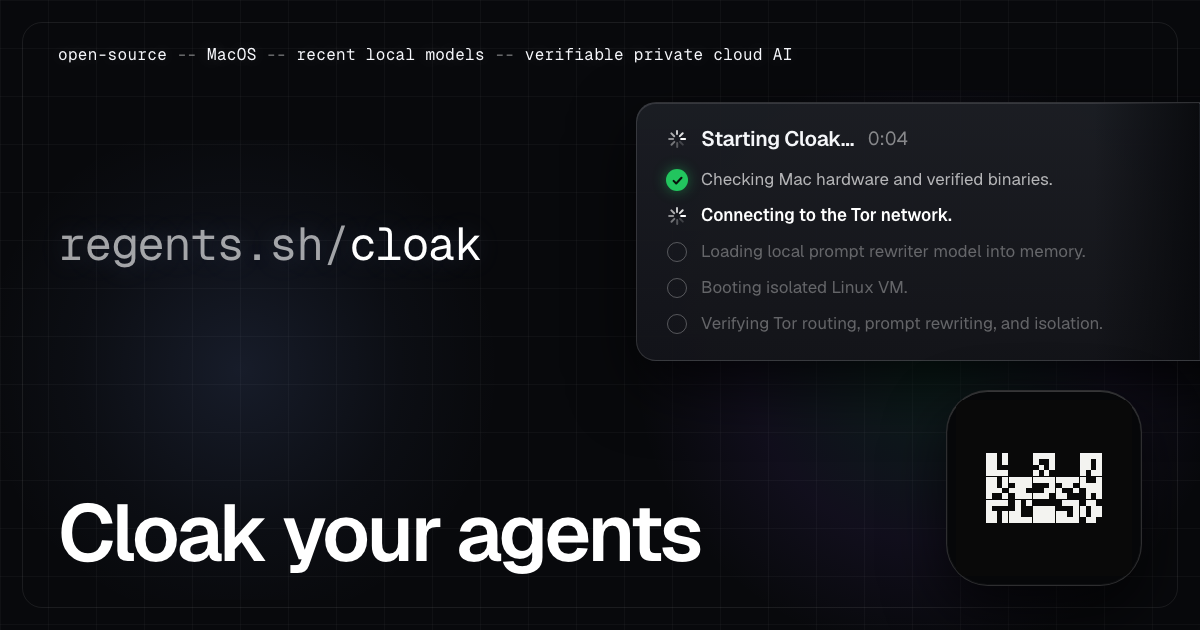
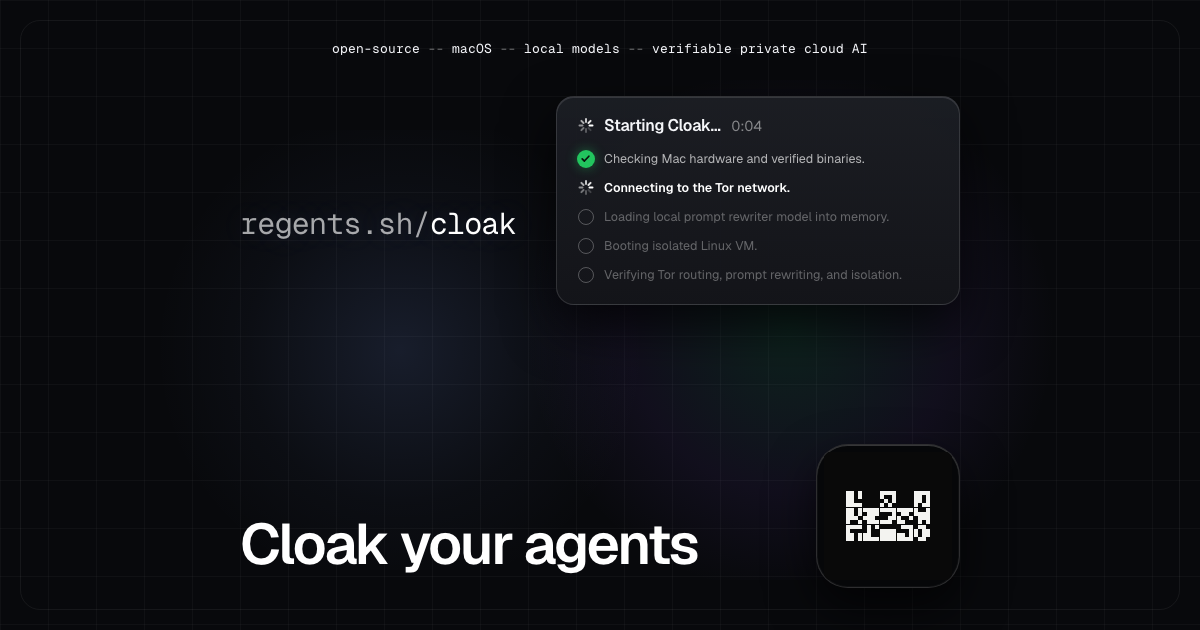
Reframe Cloak share card inside iMessage-safe center zone

diff --git a/scripts/share-cards/cloak.html b/scripts/share-cards/cloak.html
@@ -27,83 +27,93 @@ body {
   background-size: 48px 48px;
 }
 
-/* Soft ambient glows */
+/* Soft ambient glows centered in the iMessage-safe zone */
 .glow-left {
   position: absolute;
-  left: -40px;
-  top: 140px;
-  width: 560px;
-  height: 460px;
-  background: radial-gradient(circle, rgba(130, 165, 255, 0.12) 0%, rgba(130, 165, 255, 0.03) 45%, transparent 72%);
+  left: 140px;
+  top: 130px;
+  width: 520px;
+  height: 440px;
+  background: radial-gradient(circle, rgba(130, 165, 255, 0.13) 0%, rgba(130, 165, 255, 0.03) 45%, transparent 72%);
   pointer-events: none;
 }
 .glow-right {
   position: absolute;
-  right: -40px;
-  top: 90px;
-  width: 620px;
-  height: 540px;
-  background: radial-gradient(circle, rgba(52, 211, 153, 0.11) 0%, rgba(139, 92, 246, 0.07) 44%, transparent 72%);
+  right: 140px;
+  top: 80px;
+  width: 540px;
+  height: 500px;
+  background: radial-gradient(circle, rgba(52, 211, 153, 0.12) 0%, rgba(139, 92, 246, 0.07) 44%, transparent 72%);
   pointer-events: none;
 }
 
 /* Subtle hairline frame */
 .frame {
   position: absolute;
-  inset: 22px;
-  border: 1px solid rgba(255,255,255,0.08);
+  inset: 20px;
+  border: 1px solid rgba(255,255,255,0.06);
   border-radius: 20px;
   pointer-events: none;
 }
 
-/* Top bar: small, bright text */
+/*
+ * Safe-zone layout: full canvas is 1200x630 (1.91:1 for X, Telegram, Discord, Slack),
+ * while all foreground typography, the animated Tor startup card, and the dithered
+ * crown sit strictly inside the centered 744x630 region (x: 228..972) so iMessage's
+ * ~4:3 center crop never clips any text, card, or logo.
+ */
+
+/* Top bar: small, bright text centered inside safe zone */
 .topbar {
   position: absolute;
-  top: 44px;
-  left: 58px;
-  right: 58px;
+  top: 40px;
+  left: 240px;
+  right: 240px;
   display: flex;
   align-items: center;
+  justify-content: center;
   font-family: "Geist Mono", ui-monospace, monospace;
-  font-size: 16px;
-  letter-spacing: 0.02em;
+  font-size: 13px;
+  letter-spacing: 0.015em;
   color: #F7F8FC;
   text-shadow: 0 0 18px rgba(255,255,255,0.22);
+  white-space: nowrap;
 }
 .topbar .sep {
-  color: rgba(255,255,255,0.45);
-  margin: 0 10px;
+  color: rgba(255,255,255,0.42);
+  margin: 0 8px;
 }
 
-/* Upper-left middle URL lockup */
+/* Upper-left middle URL lockup inside safe zone */
 .url-hero {
   position: absolute;
-  left: 58px;
-  top: 214px;
+  left: 240px;
+  top: 204px;
   font-family: "Geist Mono", ui-monospace, monospace;
-  font-size: 46px;
+  font-size: 30px;
   font-weight: 400;
   letter-spacing: -0.025em;
-  color: rgba(255,255,255,0.62);
+  color: rgba(255,255,255,0.64);
   text-shadow: 0 0 28px rgba(160, 190, 255, 0.18);
+  white-space: nowrap;
 }
 .url-hero strong {
   font-weight: 400;
   color: #FFFFFF;
 }
 
-/* Bottom-right dithered logo tile */
+/* Bottom-right dithered logo tile inside safe zone */
 .logo-wrap {
   position: absolute;
-  right: 58px;
-  bottom: 44px;
-  width: 196px;
-  height: 196px;
-  border-radius: 42px;
+  right: 240px;
+  bottom: 42px;
+  width: 144px;
+  height: 144px;
+  border-radius: 32px;
   background: #060709;
   border: 1px solid rgba(255,255,255,0.16);
   box-shadow:
-    0 24px 60px rgba(0,0,0,0.68),
+    0 20px 48px rgba(0,0,0,0.68),
     0 0 0 1px rgba(255,255,255,0.04) inset,
     0 1px 0 rgba(255,255,255,0.16) inset;
   display: flex;
@@ -112,51 +122,41 @@ body {
   overflow: hidden;
 }
 .logo-wrap img {
-  width: 176px;
-  height: 176px;
+  width: 128px;
+  height: 128px;
   display: block;
   image-rendering: pixelated;
 }
 
-/* Right-side cropped 5-step Tor startup panel */
+/* Right-side 5-step Tor startup panel — fully inside the iMessage safe zone */
 .tor-panel {
   position: absolute;
-  right: -86px;
-  top: 102px;
-  width: 650px;
+  right: 240px;
+  top: 96px;
+  width: 404px;
   background: linear-gradient(180deg, rgba(28, 30, 36, 0.94) 0%, rgba(19, 20, 25, 0.96) 100%);
   border: 1px solid rgba(255,255,255,0.13);
-  border-radius: 20px;
-  padding: 22px 28px 24px;
+  border-radius: 18px;
+  padding: 18px 19px 20px;
   box-shadow:
-    0 24px 64px rgba(0,0,0,0.72),
+    0 20px 52px rgba(0,0,0,0.72),
     0 1px 0 rgba(255,255,255,0.12) inset;
-}
-.tor-panel::after {
-  content: "";
-  position: absolute;
-  top: 0;
-  bottom: 0;
-  right: 86px;
-  width: 105px;
-  background: linear-gradient(to right, transparent, rgba(8,9,12,0.88));
-  pointer-events: none;
 }
 
 .tor-head {
   display: flex;
   align-items: center;
-  gap: 12px;
-  margin-bottom: 16px;
+  gap: 9px;
+  margin-bottom: 13px;
 }
 .tor-title {
-  font-size: 21px;
+  font-size: 16px;
   font-weight: 600;
   letter-spacing: -0.02em;
   color: #F5F6F9;
 }
 .tor-timer {
-  font-size: 19px;
+  font-size: 14.5px;
   font-weight: 400;
   font-variant-numeric: tabular-nums;
   color: rgba(255,255,255,0.48);
@@ -166,13 +166,13 @@ body {
 .steps {
   display: flex;
   flex-direction: column;
-  gap: 12px;
+  gap: 10px;
 }
 .step {
   display: flex;
   align-items: center;
-  gap: 12px;
-  font-size: 17px;
+  gap: 9px;
+  font-size: 12.6px;
   line-height: 1.25;
   white-space: nowrap;
 }
@@ -181,8 +181,8 @@ body {
 .step.pending { color: rgba(255,255,255,0.34); }
 
 .icon-slot {
-  width: 24px;
-  height: 24px;
+  width: 19px;
+  height: 19px;
   display: flex;
   align-items: center;
   justify-content: center;
@@ -191,54 +191,55 @@ body {
 
 /* Green check circle */
 .check {
-  width: 22px;
-  height: 22px;
+  width: 18px;
+  height: 18px;
   border-radius: 50%;
   background: #22C55E;
   display: flex;
   align-items: center;
   justify-content: center;
-  box-shadow: 0 0 14px rgba(34, 197, 94, 0.45);
+  box-shadow: 0 0 12px rgba(34, 197, 94, 0.45);
 }
-.check svg { width: 13px; height: 13px; }
+.check svg { width: 11px; height: 11px; }
 
 /* Pending hollow circle */
 .circle {
-  width: 20px;
-  height: 20px;
+  width: 16px;
+  height: 16px;
   border-radius: 50%;
-  border: 1.75px solid rgba(255,255,255,0.28);
+  border: 1.5px solid rgba(255,255,255,0.28);
 }
 
 /* Native macOS 8-spoke spinner */
 .spinner {
-  width: 22px;
-  height: 22px;
+  width: 18px;
+  height: 18px;
   position: relative;
 }
 .spinner i {
   position: absolute;
-  left: 10px;
-  top: 2px;
-  width: 2.2px;
-  height: 5.5px;
-  border-radius: 1.5px;
+  left: 8px;
+  top: 1.5px;
+  width: 2px;
+  height: 4.5px;
+  border-radius: 1.2px;
   background: #FFFFFF;
-  transform-origin: 1.1px 9px;
+  transform-origin: 1px 7.5px;
 }
 
-/* Bottom-left large headline */
+/* Bottom-left large headline inside safe zone */
 .headline-wrap {
   position: absolute;
-  left: 58px;
+  left: 240px;
   bottom: 58px;
 }
 .headline {
-  font-size: 80px;
+  font-size: 57px;
   font-weight: 600;
   line-height: 0.96;
   letter-spacing: -0.04em;
   color: #FFFFFF;
+  white-space: nowrap;
 }
 </style>
 </head>
@@ -250,7 +251,7 @@ body {
 
 <div class="topbar">
   <div>
-    open-source<span class="sep">--</span>MacOS<span class="sep">--</span>recent local models<span class="sep">--</span>verifiable private cloud AI
+    open-source<span class="sep">--</span>macOS<span class="sep">--</span>local models<span class="sep">--</span>verifiable private cloud AI
   </div>
 </div>
 
